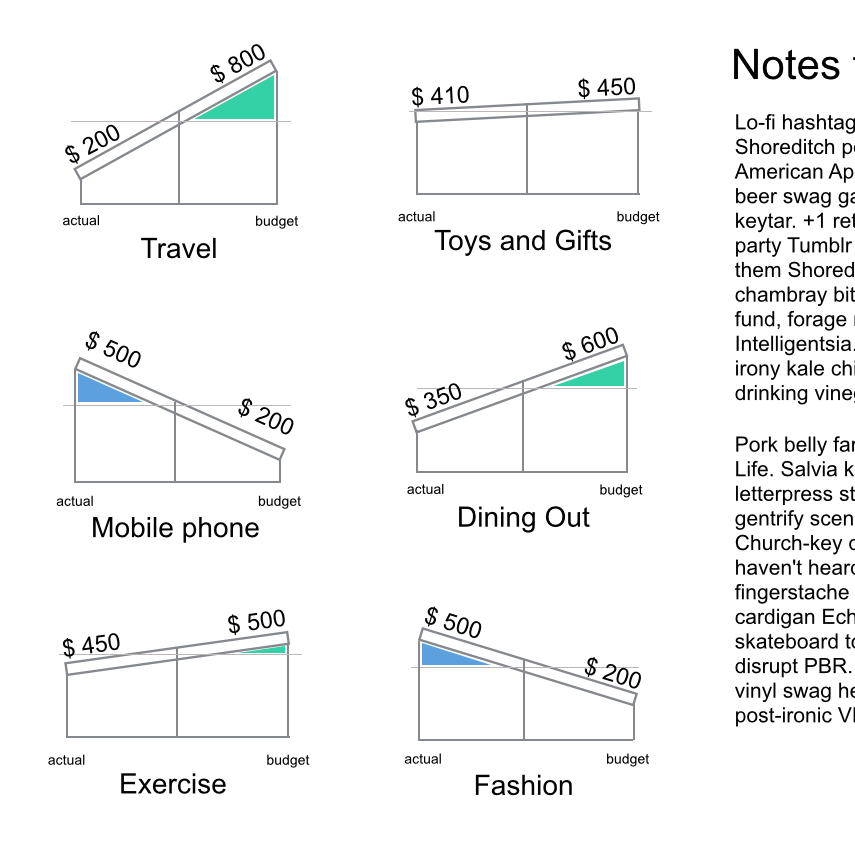
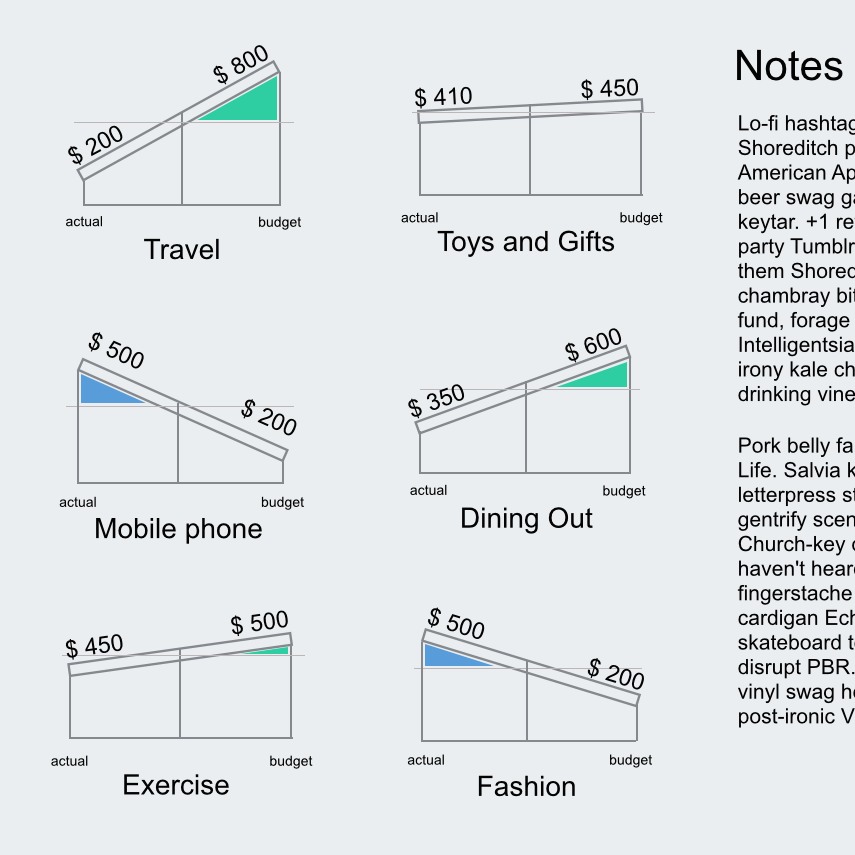
adding product design

diff --git a/index.html b/index.html
@@ -55,7 +55,7 @@
           <p>product design</p>
         </span>
       </a>
-      <img id="img_box" src="http://paigederaedt.github.io/assets/levanto_gray.png">
+      <img id="img_box" src="http://paigederaedt.github.io/assets/levanto.png">
     </div>
     <div class="col-sm-3">
       <a href="http://paigederaedt.github.io/poetic_science_fair.html">
